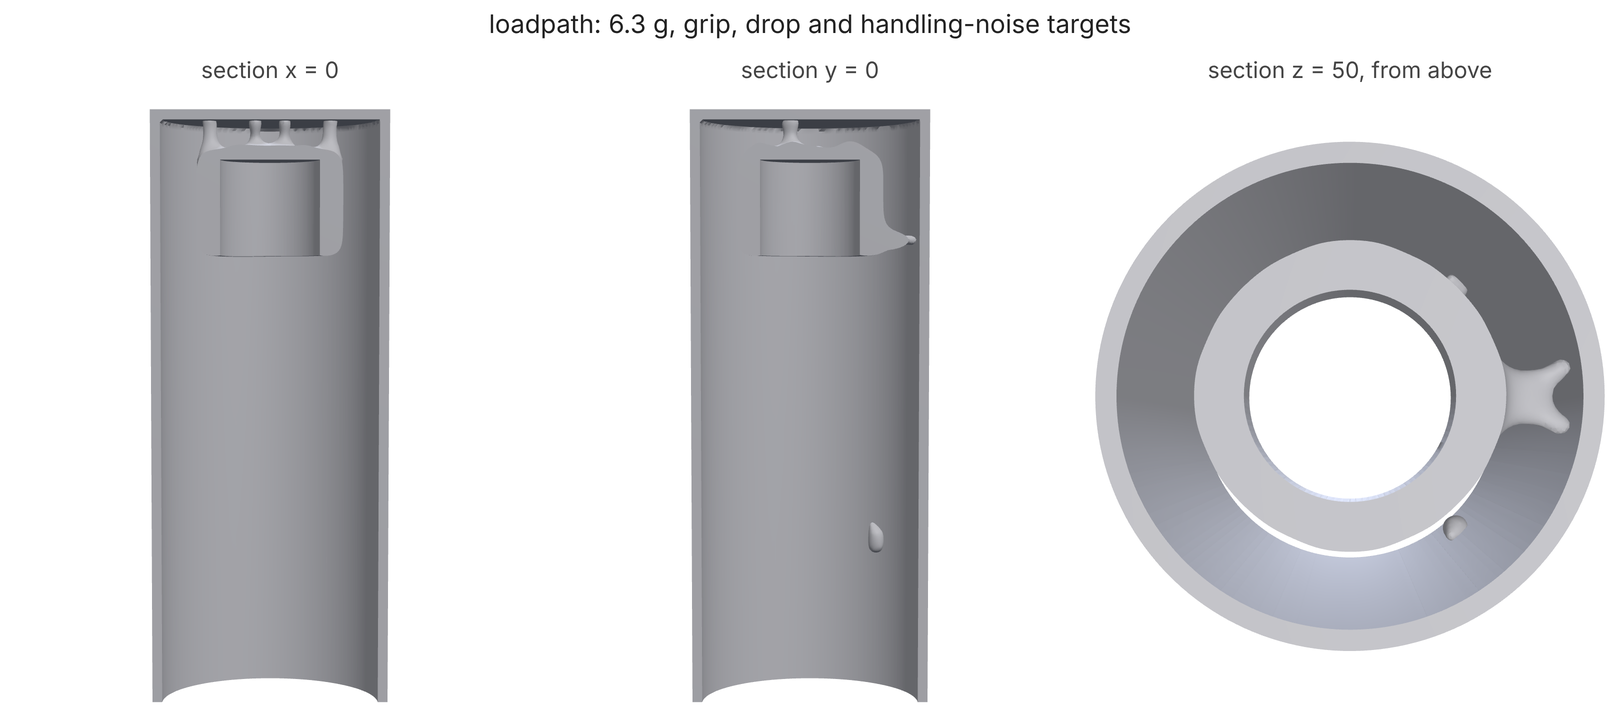
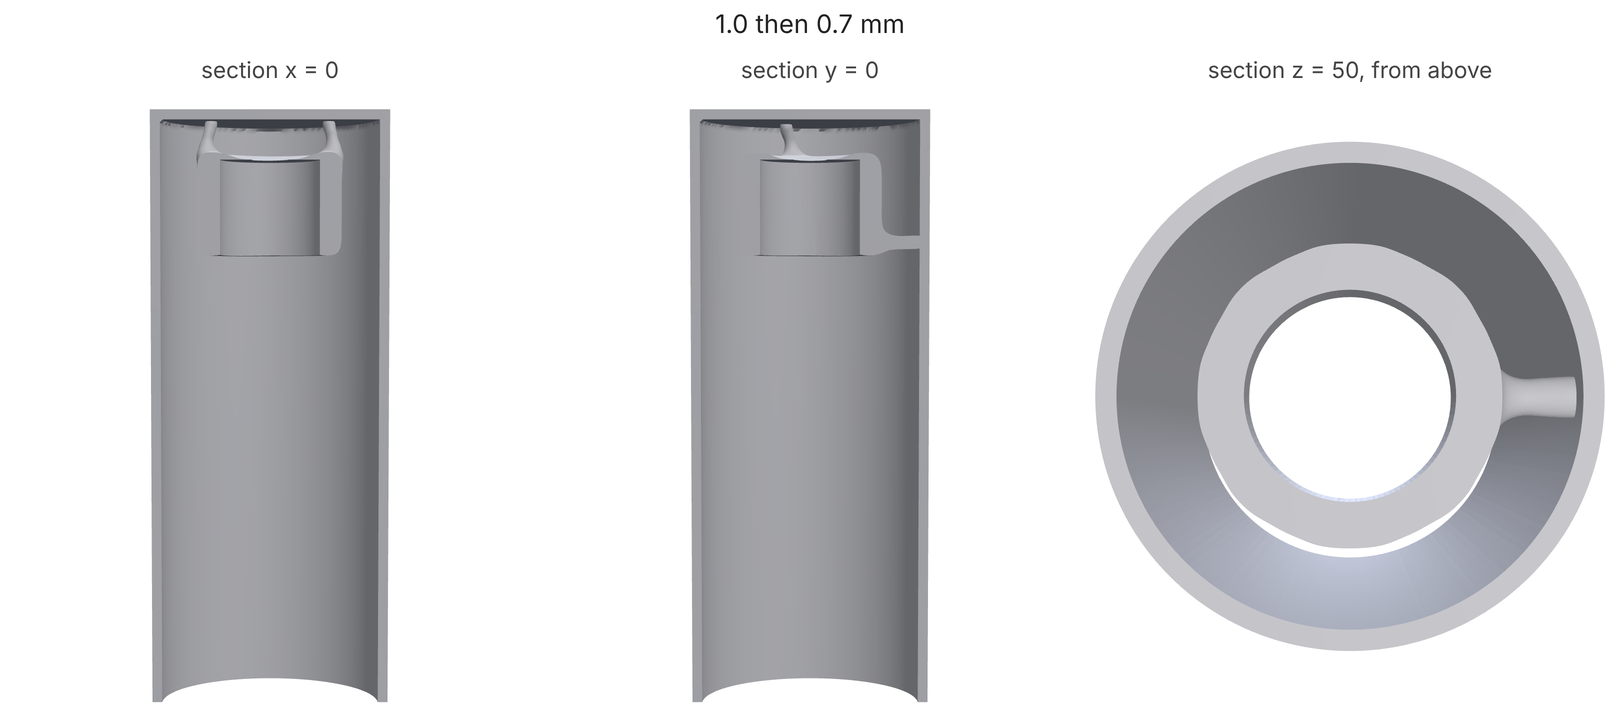
Feel: the microphone body's head drop met on 1.0 then 0.7 mm cells; touch-mic re-run
Mic body, designed on 1 mm then 0.7 mm cells (120 + 60 iterations) and
read on its own cut cells: head drop 1360 g against 1500 (1362 g at
0.35 mm), handling noise 0.22-0.30 at 500 Hz with modes 134-221 Hz, grip
0.37 mm at 20 N (window 0.3-1.0). The 1 mm design read on cut cells was
2000 g. That run used the thin-skin density floor; on the new cut-cell
skin model the 0.7 mm level stalls on the drop ceiling (documented,
LOADPATH_SKIN_MODEL=floor reproduces).

Touch-mic, 1.0 then 0.7 mm: the face-down drop is met on the design (1960
vs 2000 g) and misses delivered (2530 g, from 3020); the board bounce
floor now misses by 8% in z; 9 of 14 presses delivered. The bare part
drops at 1550 g, so the interior the click and bounce need is what
stiffens the fall.

Feel read-backs: cut cells no finer than 0.5 mm (0.35 mm inside a run ran
out of memory), modes no finer than 0.5 mm. README, SKILL.md, FEEL.md,
section render of the new part.

Claude-Session: https://claude.ai/code/session_01HFwANTrZ5UyBv7JhayY5wd

diff --git a/examples/feel/mic_body.py b/examples/feel/mic_body.py
@@ -1,7 +1,10 @@
 """
 Feel targets inside a fixed exterior: a handheld microphone body.
 
-    python examples/feel/mic_body.py --out mic-out [--pitches 1.0] [--baseline]
+    python examples/feel/mic_body.py --out mic-out [--pitches 1.0,0.7 --iterations 120,60] [--baseline]
+
+The passing design in docs/FEEL.md was made with LOADPATH_SKIN_MODEL=floor
+(the cut-cell skin model stalls on the drop at 0.7 mm; see there).
 
 A generic stick microphone, 24 mm across and 60 mm long, in SLS TPU 88A:
 the exterior is industrial design, kept as a 1.0 mm skin, open at the
@@ -83,6 +86,7 @@ def main():
     ap.add_argument("--pitches", default="1.0")
     ap.add_argument("--iterations", default=None)
     ap.add_argument("--baseline", action="store_true")
+    ap.add_argument("--move-sharp", type=float, default=None, help="feel.moveSharp (default 0.03)")
     a = ap.parse_args()
     os.makedirs(a.out, exist_ok=True)
     from loadpath.domain import build_domain
@@ -92,6 +96,8 @@ def main():
 
     pitches = [float(p) for p in a.pitches.split(",")]
     doc = study(pitches[0])
+    if a.move_sharp:
+        doc["feel"]["moveSharp"] = a.move_sharp
     json.dump(doc, open(os.path.join(a.out, "mic-body.study.json"), "w"), indent=1)
     st = study_from_dict(doc)
     if a.baseline:

diff --git a/loadpath/feel.py b/loadpath/feel.py
@@ -604,6 +604,7 @@ def check_isolation_modal(study, prob: FeelProblem, ti: int, xp: np.ndarray, n_m
 
 
 MODAL_MIN_PITCH = 0.5
+CUT_MIN_PITCH = 0.5
 
 
 def run_feel(study, out_dir: str, pitches=None, iterations=None, on_progress=None, modal: bool = True,
@@ -654,7 +655,10 @@ def run_feel(study, out_dir: str, pitches=None, iterations=None, on_progress=Non
                 # members (docs/SWITCH.md); this one is what `delivered` is.
                 if on_progress is not None:
                     on_progress({"stage": "verify", "check": f"feel targets on cut cells at {vp:g} mm"})
-                cut_rows, info = feel_readings_cut(study, mesh, vp)
+                # (no finer than CUT_MIN_PITCH: 0.5 and 0.35 mm agreed within
+                # 1% on the microphone body; 0.35 inside a finished run was
+                # killed for memory)
+                cut_rows, info = feel_readings_cut(study, mesh, max(vp, CUT_MIN_PITCH))
                 for row, rc in zip(rows, cut_rows):
                     row["deliveredDensity"], row["deliveredDensityOk"] = row["delivered"], row["deliveredOk"]
                     row["delivered"], row["deliveredOk"] = rc["directions"], rc["ok"]

diff --git a/docs/FEEL.md b/docs/FEEL.md
@@ -134,12 +134,23 @@ here) and read the delivered mesh back on a grid of half the design pitch
 ## Checks on the result
 
 - **Thresholded**: the same readings on the black-and-white design.
-- **Delivered**: the STL read back on the half-pitch grid
-  (`delivered`, `deliveredOk`, `verifyPitch`).
+- **Delivered**: the STL read back on its own cut cells (`delivered`,
+  `deliveredOk`, `cutCells`), as push pads are ([SWITCH.md](SWITCH.md)):
+  each cell the surface cuts is integrated over its solid part, so a 1 mm
+  skin or member is 1 mm whatever the grid. The grid is half the design
+  pitch, no finer than 0.5 mm. Holds and loads go on the part's own cells
+  that are at least half full. The older reading, the mesh's fill per cell
+  as a density at E x^3 (`deliveredDensity`, `verifyPitch`), stays in the
+  report; it does not settle as the grid refines (the 1 mm microphone
+  body's head read 89, 78 and 67 N/mm on cut cells at 1, 0.5 and 0.33 mm,
+  and 56 as a density), so it no longer decides `deliveredOk`.
+  `feel.cutCells: false` goes back to it.
 - **Modes** (isolate targets): the delivered part's modes with the part as
   a point mass on its mount and the structure's own mass, the hand's nodes
   the shaken base; the transmissibility at `band`, or the worst
-  amplification up to `upTo`, by modal superposition (`modal`).
+  amplification up to `upTo`, by modal superposition (`modal`). Modes are
+  read on a grid no finer than 0.5 mm: at 0.35 mm the shift-invert factor
+  took 14 GB.
 
 ## A handheld microphone body
 
@@ -152,9 +163,9 @@ ring mount; its cable path and a board both slide in from the bottom
 3 mm of travel, and handling noise from 500 Hz up reaches the capsule at
 under half.
 
-![the microphone body cut along its axis and across the capsule mount](images/feel/mic-body-sections.png)
+![the microphone body designed on 1 mm then 0.7 mm cells, cut along its axis and across the capsule mount](images/feel/mic-body-sections.png)
 
-| design (1 mm cells; delivered read at 0.5 mm) | grip at 20 N | head drop, 4 g capsule | capsule mount, x / y / z |
+| design (1 mm cells; delivered read as a density at 0.5 mm) | grip at 20 N | head drop, 4 g capsule | capsule mount, x / y / z |
 |---|---|---|---|
 | window | 0.3-1.0 mm (20-67 N/mm) | under 1500 g and 3 mm (8.7-44 N/mm) | 1.6-13 N/mm: under half from 500 Hz up |
 | bare skin | 1.19 mm: too soft | the capsule is not held at all | not held |
@@ -169,11 +180,41 @@ to come up the whole tube and through the posts to reach it. Grip and
 isolation are met on the delivered mesh, modes included. The drop is not:
 the posts that hold the capsule still enough in three directions make the
 head 13% too stiff for 1500 g (1690 g at 1.2 mm of travel). On 1 mm cells
-the optimizer could not find a hanger that does both; whether a finer
-grid (`pitches: [1.0, 0.7]`) can is the next run.
+the optimizer could not find a hanger that does both; a finer grid does
+(below).
 
 120 iterations, 2085 s on 4 cores shared with another run (about 15 minutes
 alone), then 3 minutes of read-back and modes at 0.5 mm.
+
+**1 mm, then 0.7 mm cells** (`--pitches 1.0,0.7 --iterations 120,60`)
+closes the drop. Read on cut cells, the delivered part meets all three
+targets, and the head drop reads the same on 0.5 and 0.35 mm cells:
+
+| 1.0 then 0.7 mm (cut-cell read at 0.5 mm) | grip at 20 N | head drop, 4 g capsule | capsule mount, x / y / z |
+|---|---|---|---|
+| the 1 mm design above, read on cut cells | 0.36 mm | 2000 g, 1.0 mm: misses | 11.2 / 7.9 / 10.6 N/mm |
+| **design, 0.7 mm** | **0.72 mm** | **970 g** | **4.3 / 2.6 / 5.6 N/mm** |
+| **delivered mesh** | **0.37 mm (0.32 at 0.35 mm)** | **1360 g, 1.5 mm (1362 g at 0.35 mm)** | **8.7 / 4.7 / 9.1 N/mm; modes 134-221 Hz, 0.29 / 0.22 / 0.30 at 500 Hz** |
+
+5.6 cm^3 of TPU. The grip sits near its floor of 0.3 mm on the delivered
+mesh (stiffer than the design reads), so a designer wanting a softer
+handle should open the window downward. About 40 minutes on 4 cores
+(PARDISO; see below).
+
+That run used the thin-skin density floor. Since then push pads read thin
+skins as cut cells in the optimizer too ([SWITCH.md](SWITCH.md)), and the
+same run on that model stalls at 0.7 mm: the drop ceiling stays 2.4x over
+on the dilated design through 120 iterations at 0.7 mm (with `moveSharp`
+0.05 too), and the delivered head reads 2000-2500 g. Until that is
+understood, `LOADPATH_SKIN_MODEL=floor` reproduces the passing design;
+the cut-cell read-back is what says whether a design passes either way.
+The passing part is in the project files (`feel/mic-body-0.7/`).
+
+Speed: each feel target group factors its own system, twice with robust
+reads, so the microphone body solves six systems of ~90k dofs an
+iteration. On SuperLU's minimum degree that was 524 s an iteration on a
+0.7 mm grid; `switch._Solves` now factors with PARDISO wherever
+`pypardiso` is installed (22 s, same numbers to every digit printed).
 
 ## On a real product: the touch microphone
 
@@ -221,6 +262,26 @@ skins; the honest reading is the delivered one. Whether to trade some
 click-map accuracy for a board that does not ring is the designer's
 call; the report gives both. 22 minutes on 4 shared cores.
 
+**1 mm, then 0.7 mm cells** (60 + 60 iterations, cut-cell skin, 58
+minutes), read on cut cells at 0.5 mm: the drop gets closer but still
+misses, and the board bounce now misses by a little.
+
+| touch-mic, cut-cell read at 0.5 mm | pinch | face-down drop | board bounce x / y / z | presses in window |
+|---|---|---|---|---|
+| bare skin, base and rails (0.7 mm) | 0.43 mm | 1550 g: in window | 63 / 46 / 12 N/mm | |
+| 1 mm design above | 0.29 mm | 3020 g: misses | 93 / 86 / 31 N/mm | |
+| **1.0 then 0.7 mm, design** | **0.38 mm** | **1960 g: in window** | 90 / 60 / 25 N/mm | 8 of 14 |
+| **1.0 then 0.7 mm, delivered** | **0.48 mm** | 2530 g: misses | 89 / 69 / 24 N/mm (z under its 26 floor) | **9 of 14** (155-431 gf) |
+
+The bare part drops inside its window, so the drop is not the exterior's
+limit: the interior the click map and the bounce floor need is what makes
+the face-down fall too stiff. The bounce wants material between the rails
+and the top skin, and so does the click; the drop wants that path soft.
+On this exterior the three pull against each other, and which to give is
+the designer's call (a lower drop height or a softer board bounce floor
+would each let the others pass). Part and report in the project files
+(`feel/touch-mic-0.7/`).
+
 ## Limits
 
 - Linear and quasi-static: the drop is an elastic spring (no crush, no
@@ -229,5 +290,9 @@ call; the report gives both. 22 minutes on 4 shared cores.
   (viscoelastic.py: about 1.5x at 35 Hz); feel windows are read at the
   material card's modulus.
 - A hold is clamped in all three directions; a hand is softer than that.
-- The read-back is a voxel model of the mesh at half the pitch, not a tet
-  model. For a part that matters, `loadpath verify` on the STL.
+- The read-back is a cut-cell model of the mesh, not a tet model. For a
+  part that matters, `loadpath verify` on the STL.
+- A `face` hold or load takes the outermost node of every column: on a
+  round handle that includes the flanks, where pinch and hold come close,
+  and the grip reading moves with the grid (54-67 N/mm at 0.7-0.35 mm on
+  the microphone body).

diff --git a/README.md b/README.md
@@ -290,11 +290,11 @@ which the report makes with numbers. It runs in the eval suite as
 fall hits what is inside, and how much handling noise reaches a microphone
 capsule are each a stiffness window between where the product is held and
 where the load comes in, and `loadpath feel` designs the interior for them
-together. A generic stick microphone in SLS TPU: a 6.3 g interior hangs
-the 4 g capsule from the head so a 20 N grip gives 0.64 mm and handling
-noise from 500 Hz up reaches it at under half (its modes checked on the
-delivered mesh); a 1 m fall on the head still hits it at 1690 g against a
-1500 g target, and the report says so.
+together. A generic stick microphone in SLS TPU, designed on 1 mm then
+0.7 mm cells: short posts and one strut hang the 4 g capsule from the head
+so a 1 m fall on the head hits it at 1360 g (target 1500), handling noise
+from 500 Hz up reaches it at under a third, and a 20 N grip gives 0.37 mm,
+all read on the delivered mesh's own cut cells, modes included.
 ([docs/FEEL.md](docs/FEEL.md))
 
 <img src="docs/images/feel/mic-body-sections.png" width="760">

diff --git a/loadpath/SKILL.md b/loadpath/SKILL.md
@@ -481,9 +481,11 @@ No supports or load cases are needed. A `switch` block in the same study
 is designed with it. Read the bare skin first (`examples/feel/mic_body.py
 --baseline` shows how): a target the exterior and preserved parts already
 miss cannot be met from inside. The report gives each target on the
-design, `thresholded`, `delivered` (the STL read back at `verifyPitch`,
-half the design pitch) and, for isolate, `modal`. Report the delivered
-reading. See docs/FEEL.md.
+design, `thresholded`, `delivered` (the STL read back on its own cut
+cells, half the design pitch and no finer than 0.5 mm) and, for isolate,
+`modal`. Report the delivered reading. Design on `pitches: [1.0, 0.7]`
+when a 1 mm design misses on the delivered reading (it closed the
+microphone body's drop). See docs/FEEL.md.
 
 ## Heat, fatigue and creep
 
